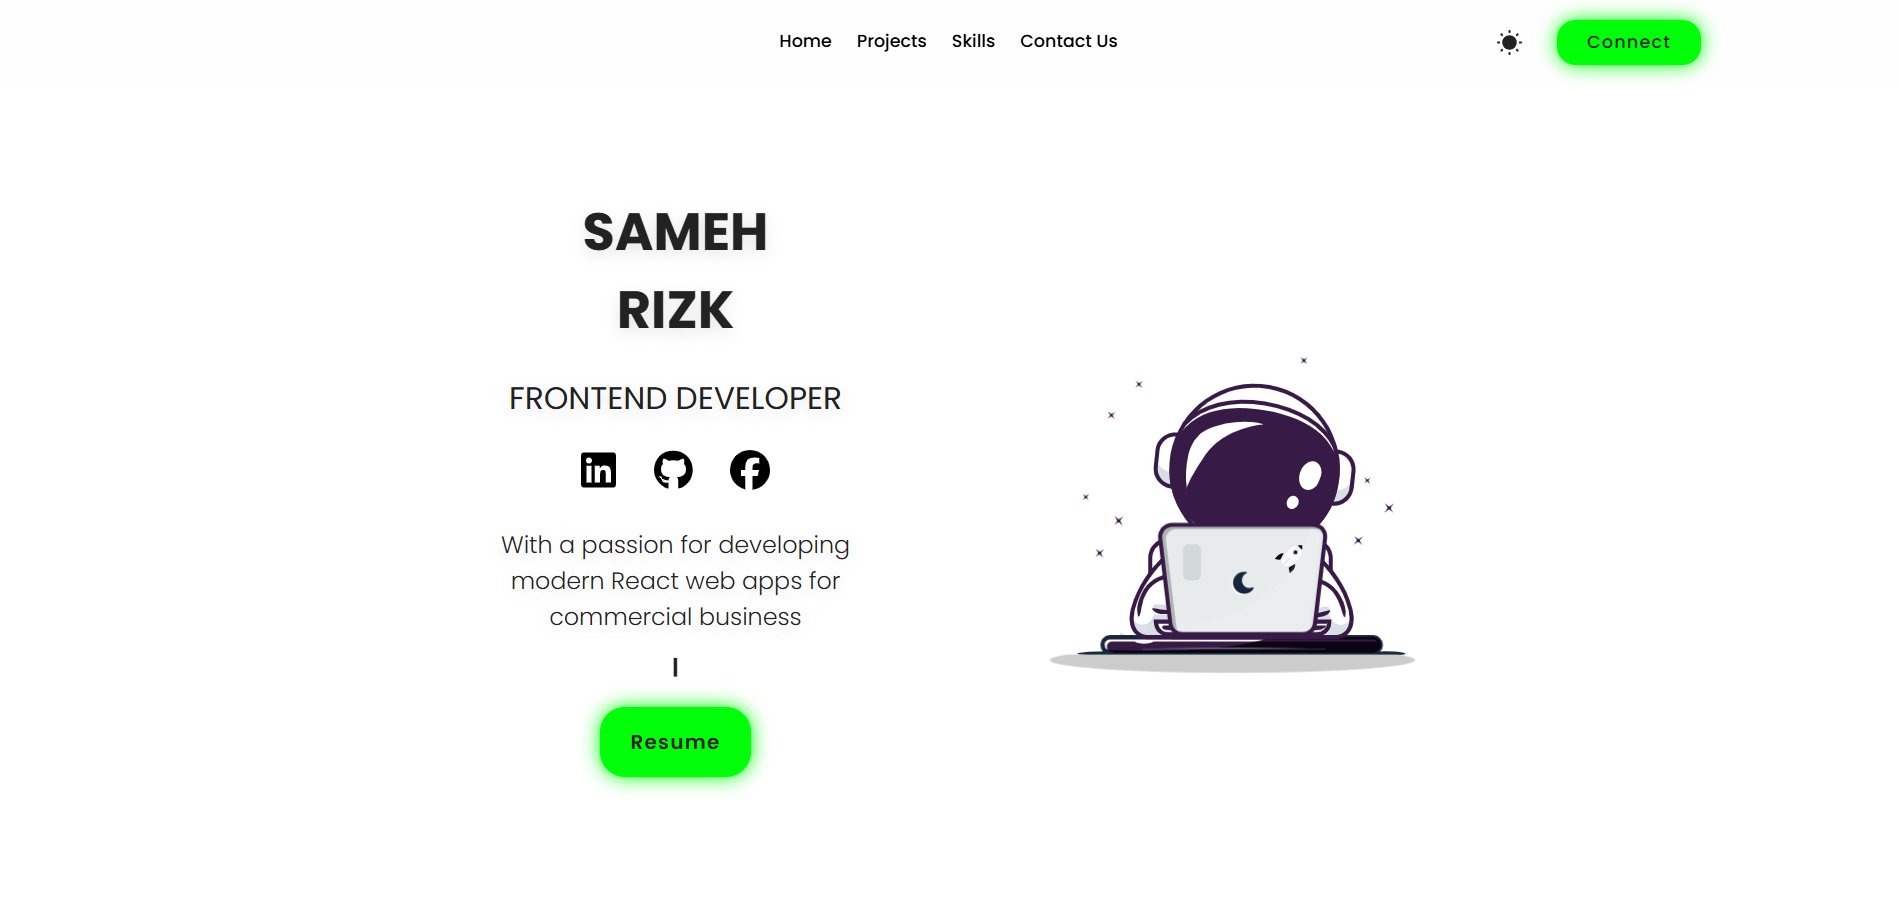
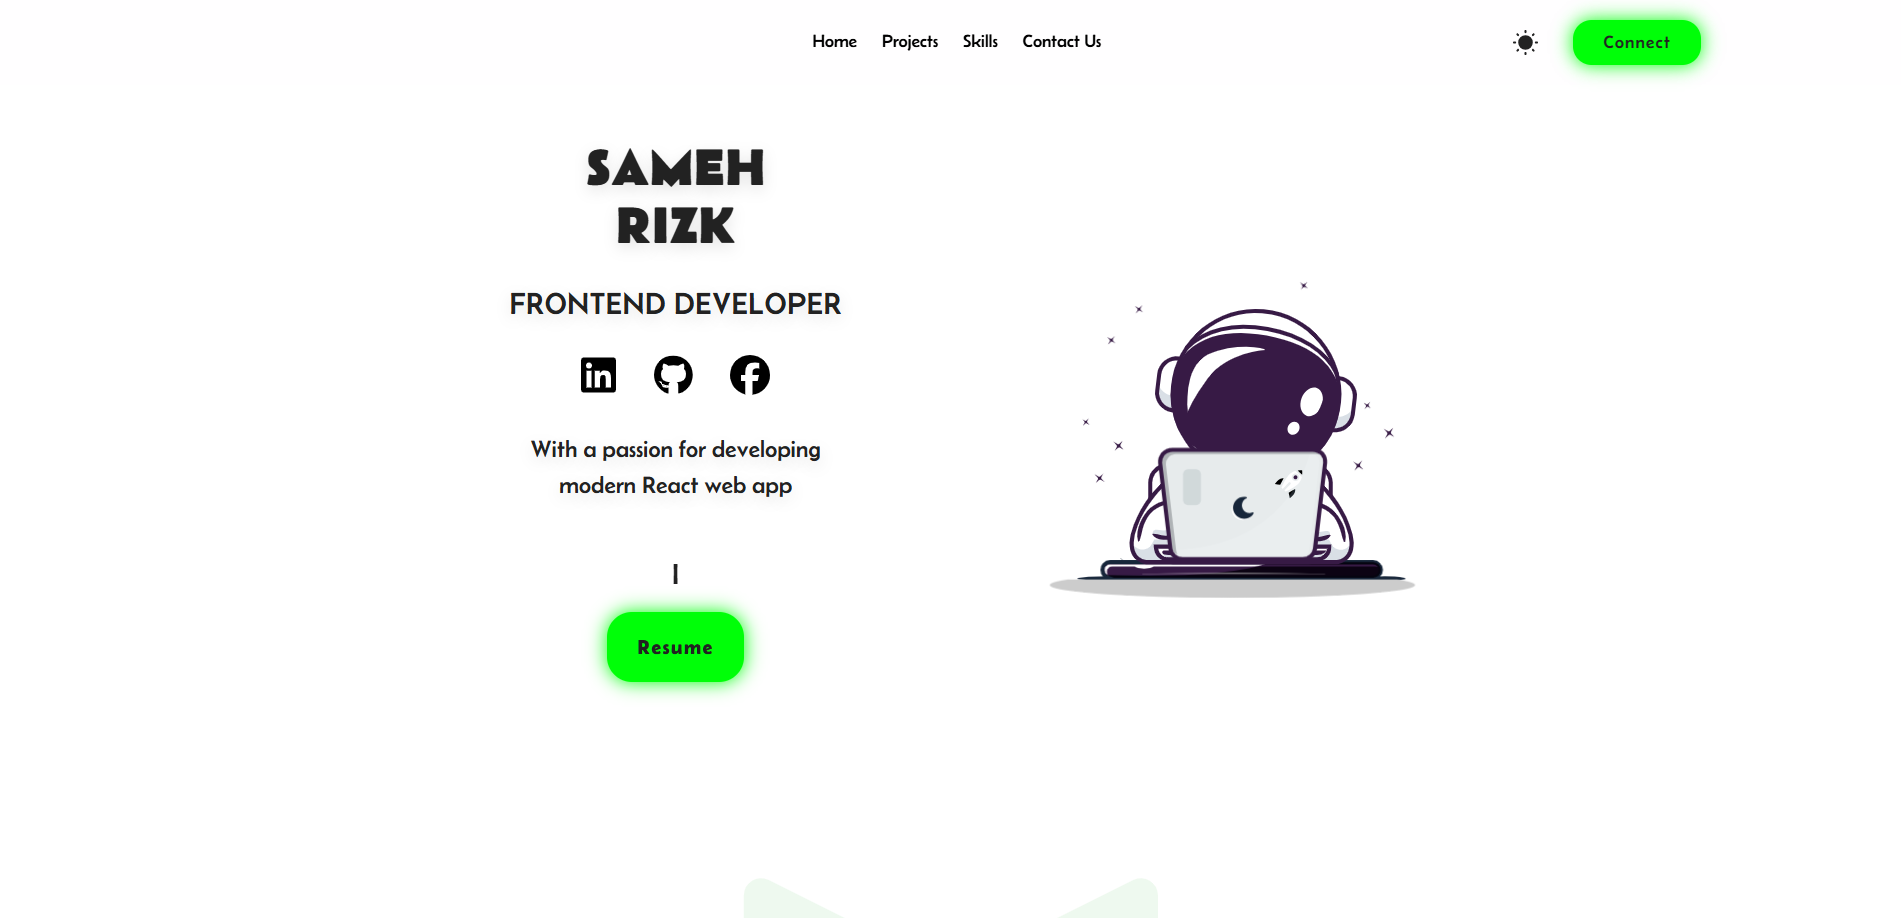
adding projects pics

diff --git a/src/assets/data.js b/src/assets/data.js
@@ -21,12 +21,41 @@ import lottieIcon from "./my-stack/lottie.webp";
 //projects
 import portfolio from "../assets/my-stack/projects/portfolio.png";
 import ecommerce from "../assets/my-stack/projects/e-commerce.png";
+import ecommerce1 from "../assets/my-stack/projects/E1.png";
+import ecommerce2 from "../assets/my-stack/projects/E2.png";
+import ecommerce3 from "../assets/my-stack/projects/E3.png";
+import ecommerce4 from "../assets/my-stack/projects/E4.png";
+
 import agency from "../assets/my-stack/projects/agency-ai.png";
-import foodera from "../assets/my-stack/projects/foodera.png";
+import agency1 from "../assets/my-stack/projects/AG1.png";
+import agency2 from "../assets/my-stack/projects/AG2.png";
+import agency3 from "../assets/my-stack/projects/AG3.png";
+
 import edusity from "../assets/my-stack/projects/edusity.png";
+import edusity1 from "../assets/my-stack/projects/ED1.png";
+import edusity2 from "../assets/my-stack/projects/ED2.png";
+import edusity3 from "../assets/my-stack/projects/ED3.png";
+
+import foodera from "../assets/my-stack/projects/foodera.png";
+import foodera1 from "../assets/my-stack/projects/FO1.png";
+import foodera2 from "../assets/my-stack/projects/FO2.png";
+import foodera3 from "../assets/my-stack/projects/FO3.png";
+
 import portfoliov1 from "../assets/my-stack/projects/portfoliov1.png";
+import portfoliov11 from "../assets/my-stack/projects/PO1.png";
+import portfoliov12 from "../assets/my-stack/projects/PO2.png";
+import portfoliov13 from "../assets/my-stack/projects/PO3.png";
+
 import bondi from "../assets/my-stack/projects/bondi.png";
+import bondi1 from "../assets/my-stack/projects/BO1.png";
+import bondi2 from "../assets/my-stack/projects/BO2.png";
+import bondi3 from "../assets/my-stack/projects/BO3.png";
+
 import fylo from "../assets/my-stack/projects/fylo.png";
+import fylo1 from "../assets/my-stack/projects/FY1.png";
+import fylo2 from "../assets/my-stack/projects/FY2.png";
+import fylo3 from "../assets/my-stack/projects/FY3.png";
+
 import grocify from "../assets/my-stack/projects/grocify.png";
 
 export const MY_STACK = {
@@ -61,11 +90,11 @@ export const Projects = [
     description:
       "A creative developer portfolio built with React, Tailwind CSS, GSAP, and a bit of obsession.",
     overview:
-      "A modern developer portfolio showcasing projects with smooth animations, clean UI, and responsive layouts.",
+      "A modern developer portfolio showcasing projects with smooth animations, clean UI, and responsive layouts",
     achievements: [
-      "Built with React + Tailwind + GSAP",
-      "Fully responsive across all devices",
-      "Reusable and scalable component structure",
+      { text: "Built with React + Tailwind + GSAP", image: portfolio },
+      { text: "Fully responsive across all devices", image: portfolio },
+      { text: "Reusable and scalable component structure", image: portfolio },
     ],
     highlight: true,
   },
@@ -80,9 +109,10 @@ export const Projects = [
     overview:
       "A full-featured shopping experience with cart management and optimized performance.",
     achievements: [
-      "Redux Toolkit for state management",
-      "Dynamic cart system",
-      "Responsive modern UI",
+      { text: "Redux Toolkit for state management", image: ecommerce1 },
+      { text: "Responsive modern UI", image: ecommerce2 },
+      { text: "Dynamic cart system", image: ecommerce3 },
+      { text: "Responsive modern UI", image: ecommerce4 },
     ],
   },
   {
@@ -95,9 +125,9 @@ export const Projects = [
     overview:
       "A sleek agency landing page with animations and responsive layout.",
     achievements: [
-      "Smooth scroll animations",
-      "Responsive design",
-      "Web3Forms integration",
+      { text: "Smooth scroll animations", image: agency1 },
+      { text: "Responsive design", image: agency2 },
+      { text: "Web3Forms integration", image: agency3 },
     ],
   },
   {
@@ -108,7 +138,11 @@ export const Projects = [
     image: edusity,
     description: "React + Vite website with smooth scrolling and forms.",
     overview: "Educational platform UI with modern frontend practices.",
-    achievements: ["React Hooks usage", "Form handling", "Custom CSS styling"],
+    achievements: [
+      { text: "React Hooks usage", image: edusity1 },
+      { text: "Form handling", image: edusity2 },
+      { text: "Custom CSS styling", image: edusity3 },
+    ],
   },
   {
     id: "foodera",
@@ -119,9 +153,9 @@ export const Projects = [
     description: "Food and recipes website built with React and Bootstrap.",
     overview: "A clean UI for browsing meals and recipes.",
     achievements: [
-      "Responsive Bootstrap layout",
-      "Component-based structure",
-      "Clean UI/UX",
+      { text: "Responsive Bootstrap layout", image: foodera1 },
+      { text: "Component-based structure", image: foodera2 },
+      { text: "Clean UI/UX", image: foodera3 },
     ],
   },
   {
@@ -133,7 +167,11 @@ export const Projects = [
     description: "First version of my portfolio.",
     overview:
       "Initial version of my portfolio showcasing early frontend skills.",
-    achievements: ["Basic responsive layout", "Simple UI structure"],
+    achievements: [
+      { text: "Basic responsive layout", image: portfoliov11 },
+      { text: "Simple UI structure", image: portfoliov12 },
+      { text: "Simple UI structure", image: portfoliov13 },
+    ],
   },
   {
     id: "bondi",
@@ -144,9 +182,9 @@ export const Projects = [
     description: "Responsive website built with HTML, CSS, and Bootstrap.",
     overview: "Static website focusing on layout and responsiveness.",
     achievements: [
-      "Bootstrap grid system",
-      "Font Awesome integration",
-      "Responsive design",
+      { text: "Bootstrap grid system", image: bondi1 },
+      { text: "Font Awesome integration", image: bondi2 },
+      { text: "Responsive design", image: bondi3 },
     ],
   },
   {
@@ -157,7 +195,11 @@ export const Projects = [
     image: fylo,
     description: "React + Tailwind responsive project.",
     overview: "Frontend training project using Tailwind CSS.",
-    achievements: ["Tailwind styling", "Responsive layout", "Modern UI design"],
+    achievements: [
+      { text: "Tailwind styling", image: fylo1 },
+      { text: "Responsive layout", image: fylo2 },
+      { text: "Modern UI design", image: fylo3 },
+    ],
   },
   {
     id: "grocify",
@@ -167,10 +209,6 @@ export const Projects = [
     image: grocify,
     description: "Responsive Tailwind HTML page.",
     overview: "Landing page with responsive navbar and layout.",
-    achievements: [
-      "Hamburger menu",
-      "Tailwind layout system",
-      "Mobile-first design",
-    ],
+    achievements: [{ text: "Hamburger menu", image: grocify }],
   },
 ];

diff --git a/src/components/pages/projects/ProjectDetails.jsx b/src/components/pages/projects/ProjectDetails.jsx
@@ -11,7 +11,7 @@ const ProjectDetails = () => {
 
   return (
     <main className="relative flex-1 min-h-screen bg-[#0c0c0e] overflow-hidden text-white">
-      {/* GRID BACKGROUND */}
+      {/* BACKGROUND GRID */}
       <div
         className="absolute inset-0 opacity-[0.03] pointer-events-none z-0"
         style={{
@@ -25,13 +25,13 @@ const ProjectDetails = () => {
       <div className="absolute top-[-10%] left-[-10%] w-[40vw] h-[40vw] bg-[#4ade80]/10 blur-[120px] rounded-full pointer-events-none" />
       <div className="absolute bottom-[-10%] right-[-10%] w-[30vw] h-[30vw] bg-[#4ade80]/5 blur-[100px] rounded-full pointer-events-none" />
 
-      {/* CONTENT WRAPPER */}
-      <div className="relative z-10 font-[belanosima]">
-        <div className="max-w-6xl mx-auto px-4 sm:px-6 mt-12 md:mt-24">
+      {/* CONTENT */}
+      <div className="relative z-10">
+        <div className="max-w-6xl mx-auto px-4 sm:px-6 mt-12 md:mt-24 font-[belanosima] text-white">
           {/* Back Button */}
           <button
             onClick={() => navigate(-1)}
-            className="text-amber-400 hover:scale-110 transition mb-6"
+            className="text-start text-amber-400 hover:underline mb-6"
           >
             <svg
               xmlns="http://www.w3.org/2000/svg"
@@ -62,7 +62,7 @@ const ProjectDetails = () => {
 
           {/* Live Section */}
           <div className="w-full mt-8 md:mt-12">
-            <section className="w-full max-w-6xl mx-auto flex flex-col-reverse md:flex-row gap-8 p-6 md:p-8 border border-amber-700/40 rounded-2xl backdrop-blur m-6">
+            <section className="w-full max-w-6xl mx-auto flex flex-col-reverse md:flex-row gap-8 p-6 md:p-8 border border-amber-700/40 rounded-2xl backdrop-blur m-6 transition-colors duration-500">
               <div className="flex-1 flex flex-col justify-center gap-4">
                 <div className="flex items-center gap-2 text-md text-amber-400">
                   <span className="w-2 h-2 rounded-full bg-amber-400 animate-pulse"></span>
@@ -73,15 +73,21 @@ const ProjectDetails = () => {
                   Experience It Live
                 </h2>
 
-                <p className="text-white/70 max-w-xl">
+                <p className="text-white/70 max-w-xl leading-relaxed">
                   Explore the full functionality and design.
                 </p>
+
+                {project.link && (
+                  <span className="text-xs text-white/40 italic">
+                    {project.link}
+                  </span>
+                )}
 
                 <a
                   href={project.link}
                   target="_blank"
                   rel="noopener noreferrer"
-                  className="mt-4 inline-flex w-fit px-6 py-3 rounded-full border border-amber-600 text-amber-400 hover:bg-amber-600 hover:text-black transition"
+                  className="mt-4 inline-flex w-fit items-center justify-center px-6 py-3 rounded-full border border-amber-600 font-semibold text-amber-400 hover:bg-amber-600 hover:text-black transition-colors duration-300"
                 >
                   Visit Live Site
                 </a>
@@ -91,7 +97,7 @@ const ProjectDetails = () => {
                 <img
                   src={project.image}
                   alt={project.name}
-                  className="w-full h-full object-cover transition-transform duration-700 group-hover:scale-105"
+                  className="object-cover w-full h-full transition-transform duration-700 group-hover:scale-105"
                 />
               </div>
             </section>
@@ -103,13 +109,13 @@ const ProjectDetails = () => {
               Overview
             </h2>
 
-            <p className="text-white/80 text-base md:text-lg max-w-4xl">
+            <p className="text-white/80 text-base md:text-lg leading-relaxed max-w-4xl">
               {project.overview}
             </p>
           </div>
 
           {/* Achievements */}
-          <div className="pb-20">
+          <div className="w-full pb-20">
             <h2 className="text-3xl md:text-4xl font-bold mb-8 text-[#4ade80]">
               Key Achievements
             </h2>
@@ -118,23 +124,27 @@ const ProjectDetails = () => {
               {project.achievements.map((item, i) => (
                 <section
                   key={i}
-                  className="group relative w-full bg-[#12161E] border border-white/5 rounded-3xl overflow-hidden flex flex-col md:flex-row"
+                  className="group relative w-full bg-[#12161E] border border-white/5 rounded-3xl overflow-hidden flex flex-col md:flex-row isolate"
                 >
-                  <div className="flex-1 p-6 md:p-12 flex flex-col justify-center">
-                    <div className="w-12 h-12 rounded-2xl bg-amber-500/10 border border-amber-500/40 flex items-center justify-center text-amber-400 font-bold">
-                      {String(i + 1).padStart(2, "0")}
-                    </div>
+                  <div className="flex-1 p-6 sm:p-8 md:p-12 flex flex-col justify-center order-2 md:order-1">
+                    <div className="flex flex-col gap-5">
+                      <div className="w-12 h-12 md:w-14 md:h-14 rounded-2xl bg-amber-500/10 border border-amber-500/40 flex items-center justify-center text-amber-400 font-bold text-xl md:text-2xl">
+                        {String(i + 1).padStart(2, "0")}
+                      </div>
 
-                    <p className="text-white/80 mt-4">{item}</p>
+                      <p className="text-white/80 text-base sm:text-lg md:text-xl leading-relaxed font-light">
+                        {item.text}
+                      </p>
+                    </div>
                   </div>
 
-                  <div className="relative w-full md:w-[45%] h-64 md:h-auto">
+                  <div className="relative w-full h-64 sm:h-80 md:h-auto md:w-[45%] lg:w-[50%] order-1 md:order-2 shrink-0">
                     <img
-                      src={project.image}
-                      alt="achievement"
-                      className="w-full h-full object-cover"
+                      src={item.image}
+                      alt={item.text}
+                      className="object-cover w-full h-full transition-transform duration-700 group-hover:scale-105"
                     />
-                    <div className="absolute inset-0 bg-gradient-to-t from-[#12161E] opacity-80"></div>
+                    <div className="absolute inset-0 bg-gradient-to-t md:bg-gradient-to-l from-[#12161E] via-transparent to-transparent opacity-80"></div>
                   </div>
                 </section>
               ))}
